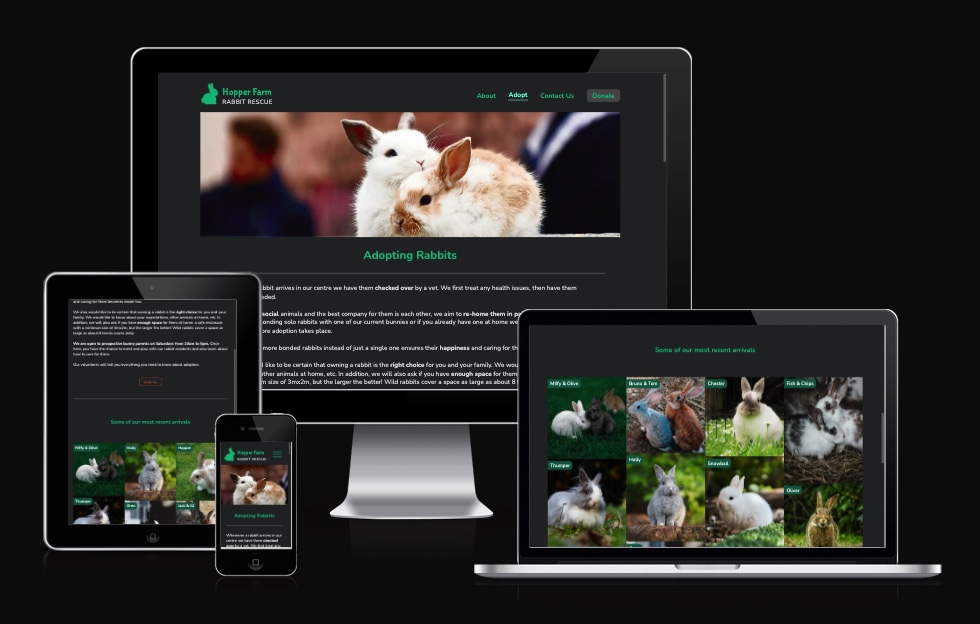
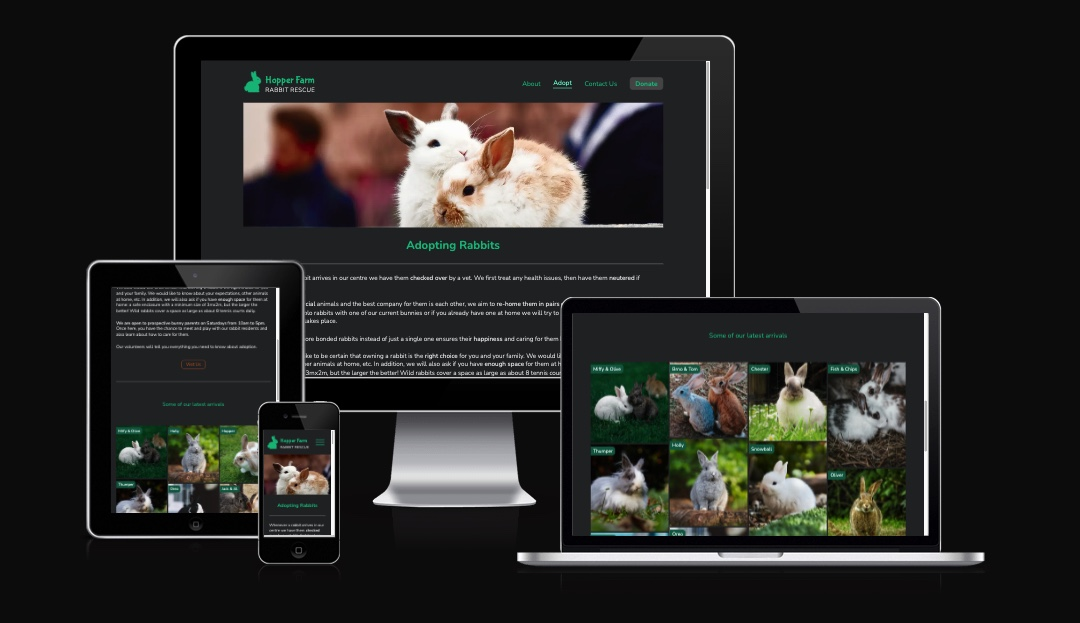
add lighthouse tests and peer review

diff --git a/TESTING.md b/TESTING.md
@@ -11,7 +11,7 @@
 
 5. [JS validation](assets/images/testing-images/js-validation.pdf) - Passed, no error found.
 
-<hr style="border-bottom: 0.2px solid grey">
+- - -
 <br><br>
 
 
@@ -34,7 +34,7 @@
     * All 'call to action' messages are featured as a button, either in the menu bar or on the page in accent colour. They all convey unambigous messages to the user.
 * The website to be responsive to all screen sizes as well as light/dark mode preferences.
     * Responsiveness testing was carried out with many browsers and screen sizes, please [see details below](#responsiveness-testing).
-<hr style="border-bottom: 0.2px solid grey">
+- - -
 <br><br>
 
 ## Website Visitors' Goals
@@ -53,7 +53,7 @@
     * Dark mode is implemented throughout the website, this includes the changing of colours of all texts, buttons, icons, forms, modals as well as the embedded Google Maps `<iframe>`.
     * Dark mode automatically responds to the computer's set preference.
 
-<hr style="border-bottom: 0.2px solid grey">
+- - -
 <br><br>
 
 # Browser Tests
@@ -98,7 +98,7 @@
 |  |  | Donate form | &check; | &check; |
 |  |  | Thank you modal | &check; | &check; |
 
-<hr style="border-bottom: 0.2px solid grey">
+- - -
 <br><br>
 
 # Responsiveness Testing
@@ -193,7 +193,7 @@ Responsiveness was tested using [Google Dev Tools](https://developer.chrome.com/
 |  | Donate form | &check; |
 |  | Thank you modal | &check; |
 
-<hr style="border-bottom: 0.2px solid grey">
+- - -
 <br><br>
 
 
@@ -208,17 +208,41 @@ Responsiveness was tested using [Google Dev Tools](https://developer.chrome.com/
     * [Adopt Page Contrast Check Result](assets/images/testing-images/a11y-contrast-adopt.pdf)
     * [Contact Us Page Contrast Check Result](assets/images/testing-images/a11y-contrast-adopt.pdf)
 * Further accessibility tests were done with Chrome Dev Tool's Lighthouse testing, [please see below](#lighthouse-tests).
-<hr style="border-bottom: 0.2px solid grey">
+- - -
 <br><br>
 
 # Lighthouse tests
 
-<hr style="border-bottom: 0.2px solid grey">
+Performance, Accessibility, Best Practices and SEO tests were carried out with [Google Dev Tools](https://developer.chrome.com/docs/devtools/)' **Lighthouse** tool in `Incognito` mode. Results are not 100% consistent, there is always a few percent variation at each performed test.
+
+Results:
+
+| Device | Page | Mode | Result | 
+| :---: | :---: | :---: | :---: |
+| Mobile | About | light mode | ![Result-about-light-mobile](assets/images/testing-images/lighthouse-about-light-mode-mobile.jpeg)|
+| Mobile | About | dark mode | ![Result-about-dark-mobile](assets/images/testing-images/lighthouse-about-dark-mode-mobile.jpeg)|
+| Desktop | About | light mode | ![Result-about-light-desktop](assets/images/testing-images/lighthouse-about-light-mode-desktop.jpeg)|
+| Desktop | About | dark mode | ![Result-about-dark-desktop](assets/images/testing-images/lighthouse-about-dark-mode-desktop.jpeg)|
+| Mobile | Adopt | light mode | ![Result-adopt-light-mobile](assets/images/testing-images/lighthouse-adopt-light-mode-mobile.jpeg)|
+| Mobile | Adopt | dark mode | ![Result-adopt-dark-mobile](assets/images/testing-images/lighthouse-adopt-dark-mode-mobile.jpeg)|
+| Desktop | Adopt | light mode | ![Result-adopt-light-desktop](assets/images/testing-images/lighthouse-adopt-light-mode-desktop.jpeg)|
+| Desktop | Adopt | dark mode | ![Result-adopt-dark-desktop](assets/images/testing-images/lighthouse-about-dark-mode-desktop.jpeg)|
+| Mobile | Contact Us | light mode | ![Result-contact-light-mobile](assets/images/testing-images/lighthouse-contact-light-mode-mobile.jpeg)|
+| Mobile | Contact Us | dark mode | ![Result-contact-dark-mobile](assets/images/testing-images/lighthouse-contact-dark-mode-mobile.jpeg)|
+| Desktop | Contact Us | light mode | ![Result-contact-light-desktop](assets/images/testing-images/lighthouse-contact-light-mode-desktop.jpeg)|
+| Desktop | Contact Us | dark mode | ![Result-contact-dark-desktop](assets/images/testing-images/lighthouse-about-dark-mode-desktop.jpeg)|
+
+The lower performance scores were mainly caused by the way Bootstrap loads before the first render:
+
+![bootstrap-performance-issue](assets/images/testing-images/bootstrap-issue.jpeg)
+- - -
 <br><br>
 
 # Peer Review
 
-<hr style="border-bottom: 0.2px solid grey">
+In our dedicated Peer Code Review channel, one feedback I received was that my rabbit pictures in the gallery section are not clearly distinguishable from each other, as there was no border or gaps between the pictures. I rectified this by adding `0.3rem` wide gaps around the pictures.
+
+- - -
 <br><br>
 
 # Bugs
@@ -231,14 +255,14 @@ Responsiveness was tested using [Google Dev Tools](https://developer.chrome.com/
     * Solution: aria-current was corrected.
 * Google Map's `<iframe>` was not changing colour in dark mode.
     * Solution: Properly customising the google maps iframe in dark mode would require an API_KEY which can not be safely embedded into HTML files, so dark-mode colours are achieved by just filtering the maps' colours in css. The `hue-rotate`, `invert` and `contrast` properties were set to achieve darker colours.
-* Peer review flagged the issue that main pictures on `About` and `Adopt` pages do not load in an older version (15.6.1 or earlier) of Safari. That was because I converted these images in `.webp` format to achieve significantly better performance score in Lighthouse. While `.webp` format is now widely accepted by all modern browsers, Safari was indeed the last one to implement this option from its version 16.0 in September 2022. Since this latest update is fairly recent, I decided not to ignore this issue but to add to all images an extra version in `.png` format as a backup. I elaborated on this solution in the [Imagery](./README.md#imagery) section of the [README.md](./README.md) file.
+* A friend of mine flagged the issue that main pictures on `About` and `Adopt` pages do not load in an older version (15.6.1 or earlier) of Safari. That was because I converted these images in `.webp` format to achieve significantly better performance score in Lighthouse. While `.webp` format is now widely accepted by all modern browsers, Safari was indeed the last one to implement this option from its version 16.0 in September 2022. Since this latest update is fairly recent, I decided not to ignore this issue but to add to all images an extra version in `.png` format as a backup. I elaborated on this solution in the [Imagery](./README.md#imagery) section of the [README.md](./README.md) file.
 
-<hr style="border-bottom: 0.2px solid grey">
+- - -
 <br><br>
 
 ## Known Bugs
 
-* When the screen reader is reading the `Adopt Page`'s main text, the reading stops before every highlighted text. I googled the issue, looked at local forums and asked advice on a specified slack channel, but found no solution. It is possible that the issue lies with the screen reader. While this issue is an inconvenience, it does not hinder the availability of the content to the user.
+* When the screen reader is reading the `Adopt Page`'s main text, the reading stops before every highlighted text. I googled the issue, looked at local forums and asked advice on a specified slack channel, but found no solution. While this issue is an inconvenience, it does not block the availability of the content to the user.
 
 
 
